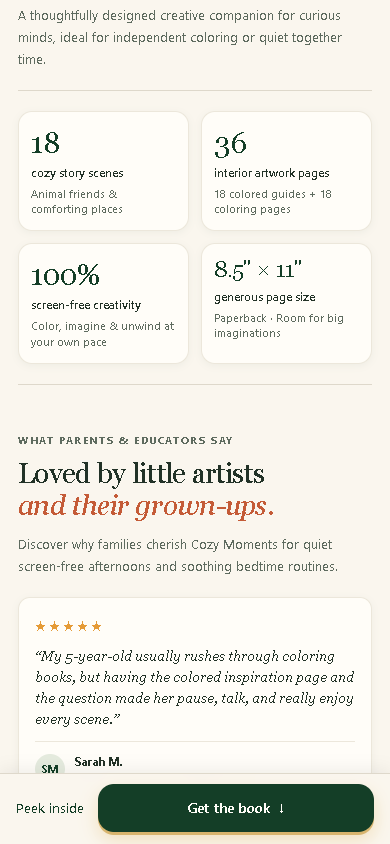
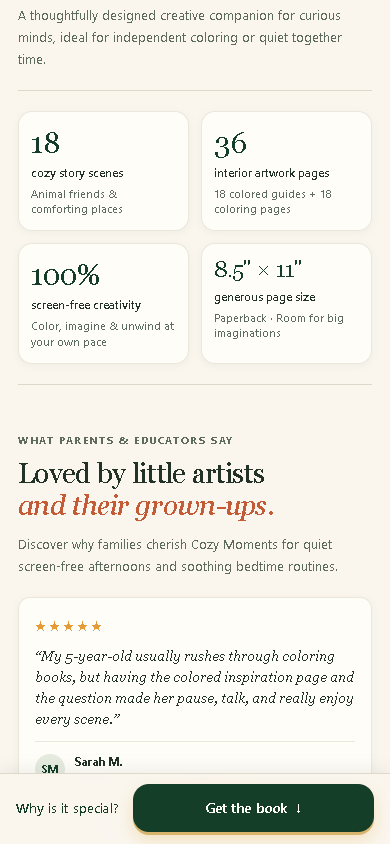
landing page

diff --git a/index.html b/index.html
@@ -49,7 +49,7 @@
         <h1 id="hero-title">Little colors.<br>Big <em>imaginations.</em></h1>
         <p class="hero-description">A cozy place to color, a little question to wonder about, and a kind word to carry through the day. Designed for mindful screen-free quiet time.</p>
         <div class="hero-actions">
-          <a class="button" href="#inside">Take a peek inside <span aria-hidden="true">→</span></a>
+          <a class="button" href="#approach-title">Why is it special? <span aria-hidden="true">→</span></a>
           <a class="button hero-purchase" href="#offer">Get the book <span aria-hidden="true">↓</span></a>
         </div>
         <div class="book-facts">
@@ -164,7 +164,7 @@
         </div>
         <div class="approach-copy">
           <p class="eyebrow">A MINDFUL MOMENT, SHARED</p>
-          <h2>A coloring book.<br><em>A conversation starter.</em></h2>
+          <h2 id="approach-title">A coloring book.<br><em>A conversation starter.</em></h2>
           <p>The picture is just the beginning. Each pair brings together a colorful scene, a page to make their own, an open question for curious minds, and advice written directly to your child.</p>
           <ol class="approach-steps">
             <li>
@@ -374,7 +374,7 @@
 
   <!-- Sticky Mobile Purchase Bar -->
   <div class="mobile-purchase">
-    <a href="#inside">Peek inside</a>
+    <a href="#approach-title">Why is it special?</a>
     <a class="button small" href="#offer">Get the book <span aria-hidden="true">↓</span></a>
   </div>
 
